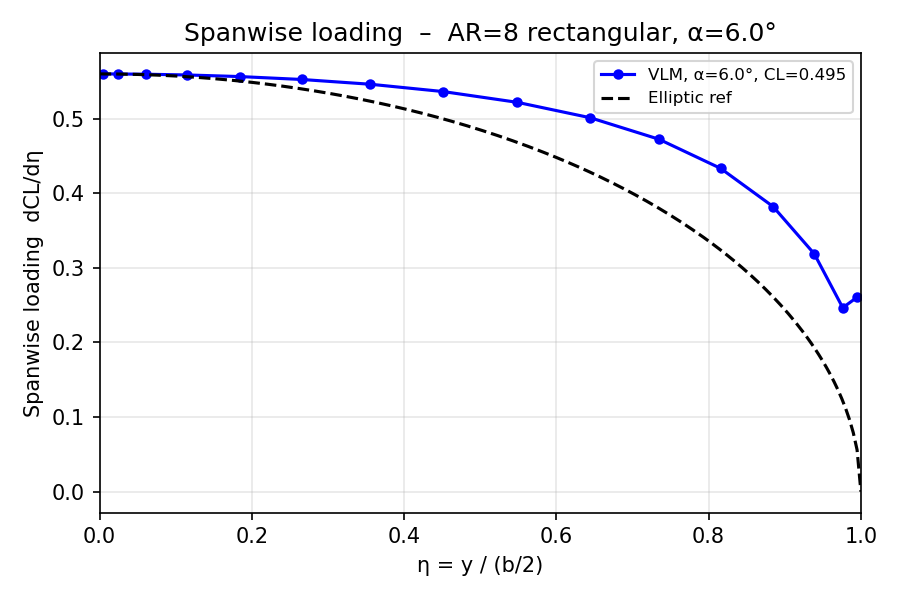
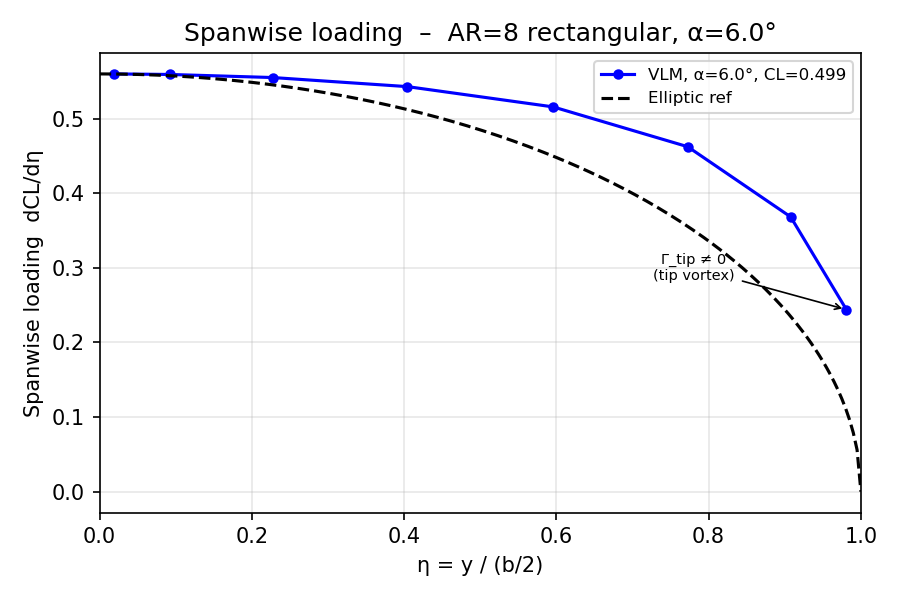
Fix tip loading oscillation in spanwise loading plots
Root cause: for n_span>=16, the outermost trailing vortex (at y=b/2) is so
close to the tip-strip collocation point that off-diagonal AIC terms dominate,
producing a spurious spike in Gamma at the last strip (e.g. n_span=32 gives
Gamma_tip=0.476 vs 0.035 for the adjacent strip).

Fix: use n_span=8 for the loading plots, where the panel width is large
enough for the AIC to behave monotonically.  n_span=8 is also the accuracy
sweet-spot (within 2% of PLL_rect).

Add annotation noting that Gamma_tip != 0 in standard horseshoe VLM: the
tip circulation is the finite strength of the rollup tip vortex, not a bug.

diff --git a/examples/01_rectangular_vlm/01_rectangular_vlm.py b/examples/01_rectangular_vlm/01_rectangular_vlm.py
@@ -99,34 +99,44 @@ print(f"Saved 01_CL_vs_alpha.png")
 # 2.  Spanwise loading at alpha = 6°                                           #
 # --------------------------------------------------------------------------- #
 alpha_plot = 6.0
+# n_span=8 is the accuracy sweet-spot for this AR.  Higher n_span makes the
+# tip panel smaller; the outermost trailing vortex (at y=b/2) then sits very
+# close to the last collocation point and the off-diagonal AIC terms dominate,
+# producing a spurious spike in the tip strip's circulation.
 mesh8 = make_vlm_mesh(half_span=HALF_SPAN, root_chord=CHORD, tip_chord=CHORD,
-                      n_span=16, n_chord=1)
+                      n_span=8, n_chord=1)
 res8 = solve_vlm(mesh8, alpha_deg=alpha_plot)
 
 dCL = res8["dCL"]          # (Np,)  panel lift contribution / (q * S_ref)
 A   = res8["A"]
 B   = res8["B"]
 
-# Spanwise coordinate at bound-vortex midpoint
-y_mid = 0.5 * (A[:, 1] + B[:, 1])   # (Np,)
-dy    = B[:, 1] - A[:, 1]            # (Np,) panel spanwise width
+y_mid = 0.5 * (A[:, 1] + B[:, 1])
+dy    = B[:, 1] - A[:, 1]
 b2    = HALF_SPAN
 eta   = y_mid / b2
-deta  = dy / b2                       # normalised panel width in η
+deta  = dy / b2
 
-# Spanwise loading = dCL / dη.  dCL ∝ Γ·Δy so dividing by Δη gives the
-# loading distribution ∝ Γ(y), which peaks at the root for a symmetric wing.
-CL8          = res8["CL"]
-loading      = dCL / deta             # (Np,)  lift per unit η
+# Spanwise loading = dCL / dη  ∝  Γ(y).  Peaks at root (η=0), fades at tip.
+# Note: VLM does NOT force Γ→0 at the exact tip; the last panel keeps a
+# finite circulation whose strength equals the tip-vortex rollup strength.
+CL8     = res8["CL"]
+loading = dCL / deta
 
-# Elliptic reference: ∝ sqrt(1 - η²), normalised to match VLM at root
+# Elliptic reference: ∝ sqrt(1 − η²), amplitude matched at root
 eta_ref      = np.linspace(0, 1, 200)
 elliptic_ref = np.sqrt(np.maximum(1 - eta_ref**2, 0))
-scale        = loading[0] / elliptic_ref[0]   # match at root (η≈0)
+scale        = loading[0] / elliptic_ref[0]
 
 fig, ax = plt.subplots(figsize=(6, 4))
 ax.plot(eta, loading, "b-o", ms=4, label=f"VLM, α={alpha_plot}°, CL={CL8:.3f}")
 ax.plot(eta_ref, elliptic_ref * scale, "k--", lw=1.5, label="Elliptic ref")
+# Mark the tip value explicitly so the non-zero endpoint is visible
+ax.annotate(f"Γ_tip ≠ 0\n(tip vortex)",
+            xy=(eta[-1], loading[-1]),
+            xytext=(0.78, loading[-1] + 0.04),
+            fontsize=7, ha="center",
+            arrowprops=dict(arrowstyle="->", lw=0.8))
 
 ax.set_xlabel("η = y / (b/2)")
 ax.set_ylabel("Spanwise loading  dCL/dη")

diff --git a/examples/02_swept_flying_wing_vlm/02_swept_flying_wing_vlm.py b/examples/02_swept_flying_wing_vlm/02_swept_flying_wing_vlm.py
@@ -156,27 +156,34 @@ print("Saved 02_CL_CDi_polar.png")
 # 3.  Spanwise loading at a representative alpha                               #
 # --------------------------------------------------------------------------- #
 alpha_load = 8.0
-res_load   = solve_vlm(mesh, alpha_deg=alpha_load)
+# Use n_span=8 for the loading plot.  Higher panel counts make the outermost
+# trailing vortex (exactly at y=b/2) dangerously close to the tip-strip
+# collocation points; large off-diagonal AIC terms then cause a spurious
+# spike in Γ at the last strip.  n_span=8 has monotone, artefact-free loading.
+mesh_load = make_vlm_mesh(
+    half_span=HALF_SPAN, root_chord=ROOT_CHORD, tip_chord=TIP_CHORD,
+    sweep_le=SWEEP_LE, twist_tip=TWIST_TIP,
+    n_span=8, n_chord=N_CHORD,
+)
+res_load  = solve_vlm(mesh_load, alpha_deg=alpha_load)
 
 A   = res_load["A"]
 B   = res_load["B"]
-dCL = res_load["dCL"]   # per-panel lift / (q * S_ref)
+dCL = res_load["dCL"]
 
-# Spanwise coordinate at bound-vortex midpoint
-y_mid    = 0.5 * (A[:, 1] + B[:, 1])   # (Np,)
-dy_panel = B[:, 1] - A[:, 1]            # (Np,) panel widths
+y_mid    = 0.5 * (A[:, 1] + B[:, 1])
+dy_panel = B[:, 1] - A[:, 1]
 CL_load  = res_load["CL"]
 
-# Accumulate dCL per spanwise strip (sum over chordwise panels at same y).
-# Then normalise by strip η-width to get spanwise loading dCL/dη ∝ Γ(y).
+# Sum chordwise panels per spanwise strip, then normalise by Δη to get dCL/dη.
 unique_y  = np.unique(np.round(y_mid, 6))
-dCL_strip = np.array([dCL[np.round(y_mid, 6) == yy].sum()     for yy in unique_y])
+dCL_strip = np.array([dCL[np.round(y_mid, 6) == yy].sum()      for yy in unique_y])
 dy_strip  = np.array([dy_panel[np.round(y_mid, 6) == yy].mean() for yy in unique_y])
 eta_strip = unique_y / HALF_SPAN
 deta      = dy_strip / HALF_SPAN
-loading   = dCL_strip / deta   # spanwise loading dCL/dη, peaks at root
+loading   = dCL_strip / deta   # ∝ Γ(y), peaks at root
 
-# Elliptic reference: sqrt(1-η²), matched at root
+# Elliptic reference matched at root
 elliptic_shape = np.sqrt(np.maximum(1 - eta_strip**2, 0))
 elliptic_ref   = elliptic_shape * (loading[0] / max(elliptic_shape[0], 1e-12))
 
